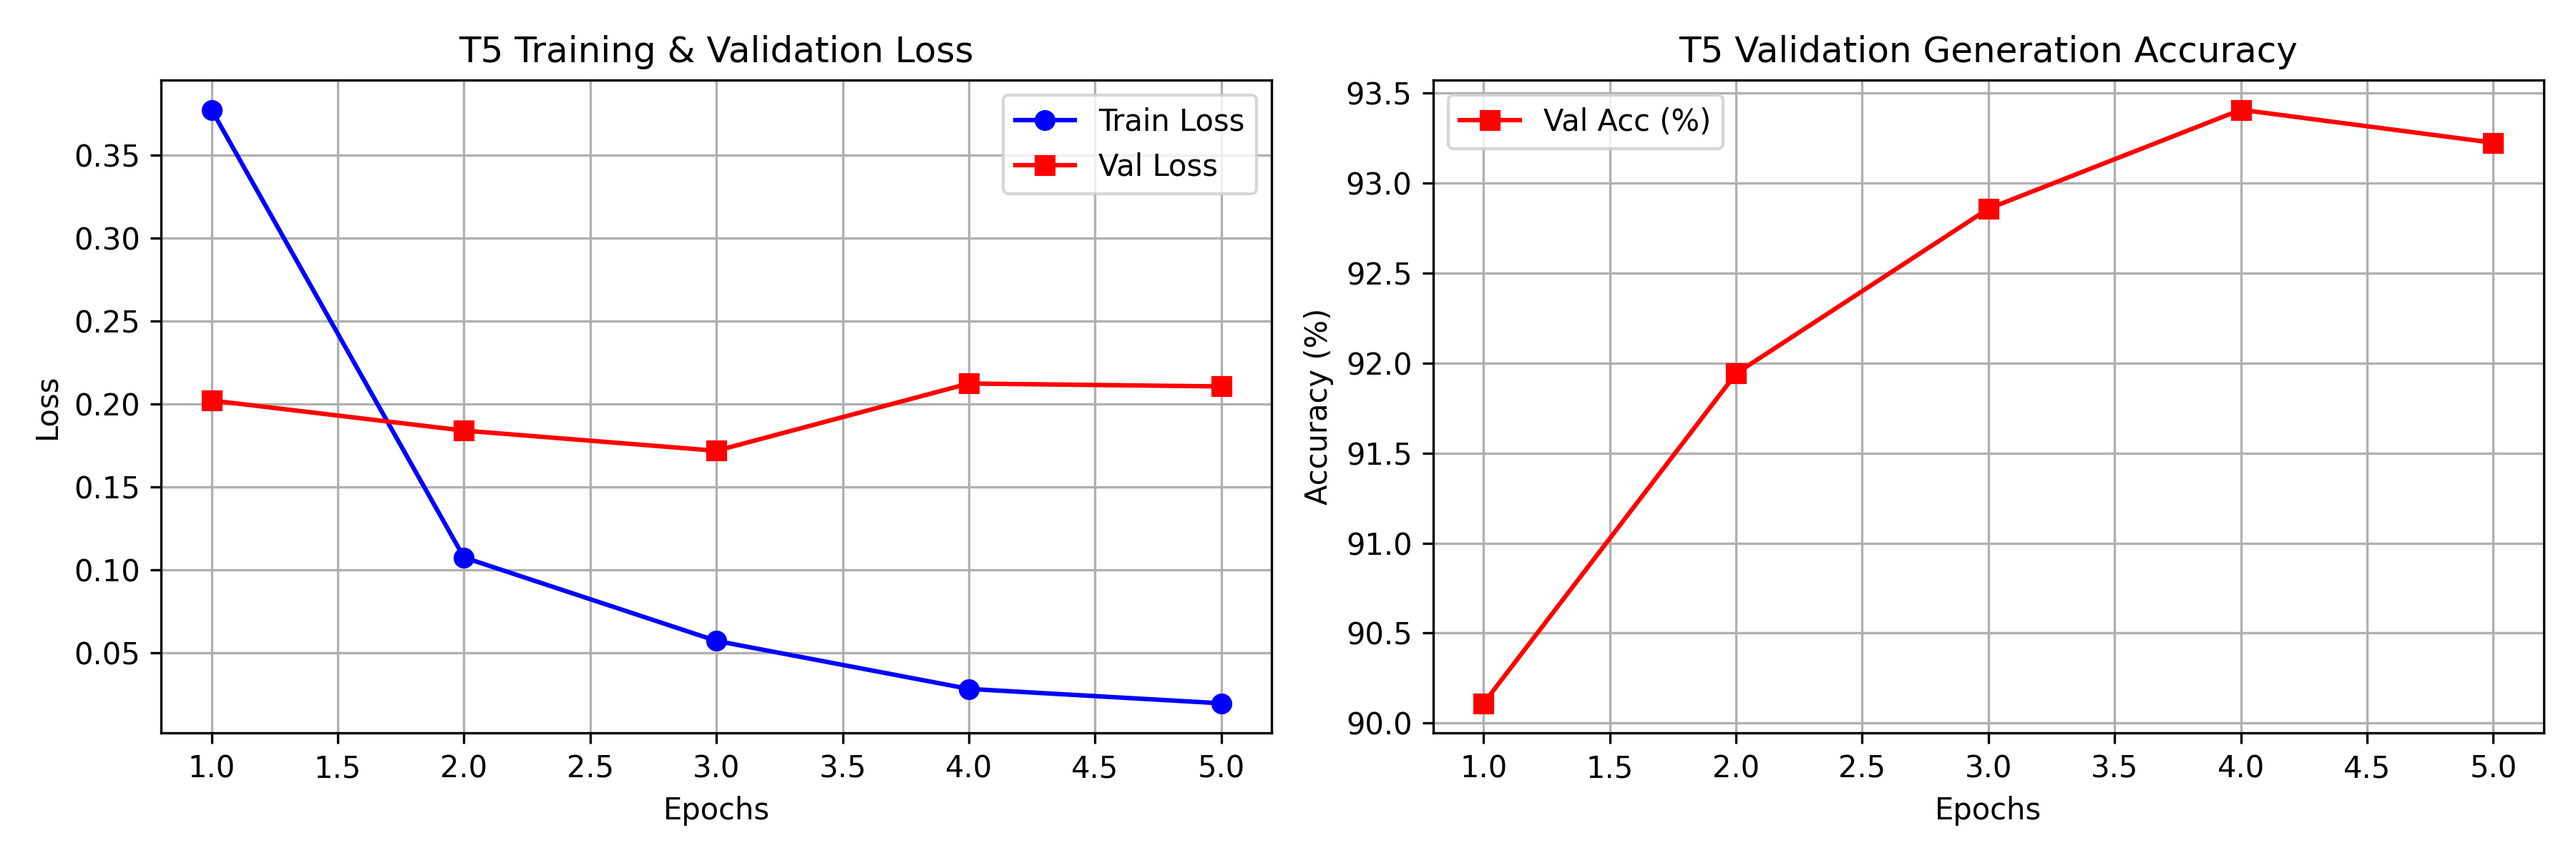
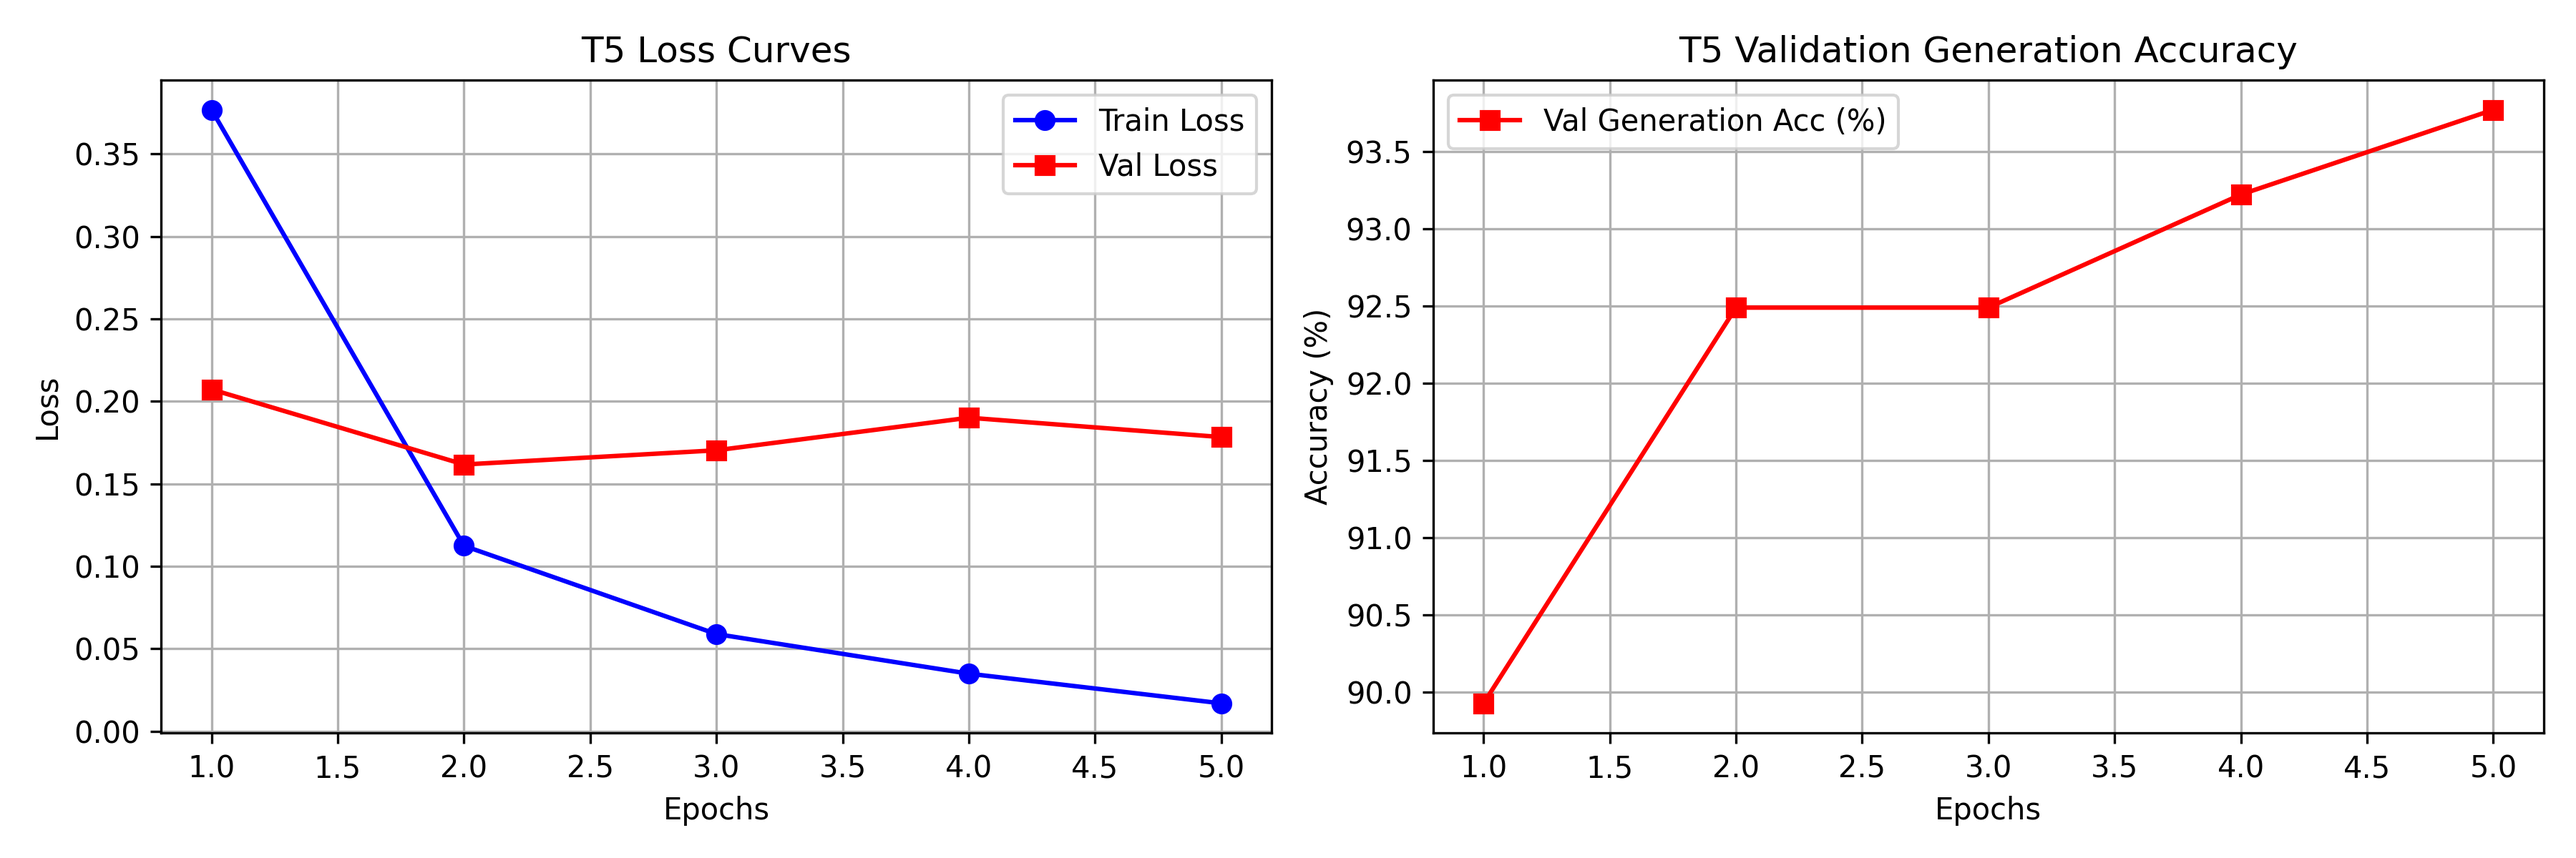
Results from Task 3.1.b after Table 1 updates -- without checkpoints

diff --git a/src/task_3_1_b_t5.py b/src/task_3_1_b_t5.py
@@ -9,7 +9,7 @@ from transformers import AutoTokenizer, AutoModelForSeq2SeqLM, get_linear_schedu
 import pandas as pd
 import numpy as np
 import matplotlib.pyplot as plt
-from sklearn.metrics import accuracy_score, precision_recall_fscore_support, classification_report
+from sklearn.metrics import accuracy_score, precision_recall_fscore_support
 
 from data_pipeline import load_and_split_trec6, seed_everything, LABEL_MAPPING, LABEL_NAMES
 
@@ -135,6 +135,84 @@ def evaluate_t5(model, dataloader, tokenizer, device, max_new_tokens=5):
     return avg_loss, acc, precision, recall, f1, invalid_rate, generated_texts, all_preds_id, all_labels_id
 
 # ==============================================================================
+# Task 3.1.B: 5-Example Generation Inspection (Print & Save)
+# ==============================================================================
+def inspect_and_save_5_examples(model, test_loader, tokenizer, device, max_new_tokens=5):
+    """
+    TASK 3.1.B: 5-EXAMPLE GENERATION INSPECTION
+    Extracts 5 test samples, prints raw & processed outputs to stdout,
+    and saves audit logs to TXT and CSV formats in results/tables/.
+    """
+    model.eval()
+    batch = next(iter(test_loader))
+    
+    input_ids = batch['input_ids'][:5].to(device)
+    attention_mask = batch['attention_mask'][:5].to(device)
+    target_strs = batch['target_str'][:5]
+    label_ids = batch['label_id'][:5].numpy()
+
+    with torch.no_grad():
+        gen_ids = model.generate(
+            input_ids=input_ids,
+            attention_mask=attention_mask,
+            max_new_tokens=max_new_tokens,
+            do_sample=False
+        )
+
+    gen_strs = tokenizer.batch_decode(gen_ids, skip_special_tokens=True)
+    prompt_strs = tokenizer.batch_decode(input_ids, skip_special_tokens=True)
+
+    records = []
+    log_lines = []
+    
+    log_lines.append("=" * 75)
+    log_lines.append("      TASK 3.1.B: 5-EXAMPLE GENERATION INSPECTION AUDIT")
+    log_lines.append("=" * 75)
+
+    for i in range(5):
+        clean_gen = gen_strs[i].lower().strip()
+        matched_id = TARGET_STR_TO_ID.get(clean_gen, -1)
+        status = "EXACT MATCH" if matched_id == label_ids[i] else "MISMATCH / INVALID"
+        
+        sample_log = [
+            f"Sample [{i+1}/5]:",
+            f"  Input Prompt:      '{prompt_strs[i]}'",
+            f"  Target String:     '{target_strs[i]}' (Class ID: {label_ids[i]})",
+            f"  Generated Output:  '{gen_strs[i]}' -> Cleaned: '{clean_gen}'",
+            f"  Mapped Class ID:   {matched_id} [{status}]",
+            "-" * 75
+        ]
+        log_lines.extend(sample_log)
+
+        records.append({
+            "Sample_Idx": i + 1,
+            "Input_Prompt": prompt_strs[i],
+            "Target_String": target_strs[i],
+            "Target_Class_ID": label_ids[i],
+            "Raw_Generated_Output": gen_strs[i],
+            "Cleaned_Generated_Output": clean_gen,
+            "Mapped_Class_ID": matched_id,
+            "Status": status
+        })
+
+    # 1. Print to Stdout
+    full_log_text = "\n".join(log_lines)
+    print("\n" + full_log_text, flush=True)
+
+    # 2. Save to TXT File
+    txt_path = "results/tables/t5_5_examples_inspection.txt"
+    with open(txt_path, "w") as f:
+        f.write(full_log_text + "\n")
+
+    # 3. Save to CSV File
+    csv_path = "results/tables/t5_5_examples_inspection.csv"
+    df_inspection = pd.DataFrame(records)
+    df_inspection.to_csv(csv_path, index=False)
+
+    print(f"Saved 5-example inspection audit text to: {txt_path}", flush=True)
+    print(f"Saved 5-example inspection audit CSV to:  {csv_path}", flush=True)
+
+# ==============================================================================
 # Main Pipeline
 # ==============================================================================
 def main():
@@ -257,27 +335,28 @@ def main():
         history['val_invalid_rate'].append(val_invalid)
 
         print(f"Epoch {epoch+1}/{args.epochs} | Train Loss: {avg_train_loss:.4g} | Val Loss: {val_loss:.4g} | "
-              f"Val Acc: {val_acc*100:.4g}% | Val Macro F1: {val_f1:.4g} | Val Invalid Rate: {val_invalid:.4g}%", flush=True)
+              f"Val Acc: {val_acc*100:.2f}% | Val Macro F1: {val_f1*100:.2f}% | Val Invalid Rate: {val_invalid:.2f}%", flush=True)
 
         if val_acc > best_val_acc:
             best_val_acc = val_acc
             torch.save(model.state_dict(), "checkpoints/t5_best_model.pt")
 
     total_time = time.time() - start_time
-    print(f"\nTraining Complete in {total_time:.4g} seconds ({total_time/60:.4g} minutes).", flush=True)
+    print(f"\nTraining Complete in {total_time:.2f} seconds ({total_time/60:.2f} minutes).", flush=True)
 
+    # Plot Learning Curves
     fig, (ax1, ax2) = plt.subplots(1, 2, figsize=(12, 4))
     epochs_range = range(1, args.epochs + 1)
 
     ax1.plot(epochs_range, history['train_loss'], 'b-o', label='Train Loss')
     ax1.plot(epochs_range, history['val_loss'], 'r-s', label='Val Loss')
-    ax1.set_title('T5 Training & Validation Loss')
+    ax1.set_title('T5 Loss Curves')
     ax1.set_xlabel('Epochs')
     ax1.set_ylabel('Loss')
     ax1.legend()
     ax1.grid(True)
 
-    ax2.plot(epochs_range, [acc * 100 for acc in history['val_acc']], 'r-s', label='Val Acc (%)')
+    ax2.plot(epochs_range, [acc * 100 for acc in history['val_acc']], 'r-s', label='Val Generation Acc (%)')
     ax2.set_title('T5 Validation Generation Accuracy')
     ax2.set_xlabel('Epochs')
     ax2.set_ylabel('Accuracy (%)')
@@ -288,6 +367,7 @@ def main():
     plt.savefig("results/figures/t5_learning_curves.png", dpi=300)
     plt.close()
 
+    # Load best checkpoint and evaluate on test set
     model.load_state_dict(torch.load("checkpoints/t5_best_model.pt"))
     test_loss, test_acc, test_prec, test_rec, test_f1, test_invalid, gen_texts, test_preds, test_labels = evaluate_t5(
         model, test_loader, tokenizer, device, max_new_tokens=args.max_target_len
@@ -296,49 +376,28 @@ def main():
     print("\n" + "=" * 60, flush=True)
     print("         T5 FINAL TEST SET RESULTS", flush=True)
     print("=" * 60, flush=True)
-    print(f"  Best Val Accuracy: {best_val_acc*100:.4g}%", flush=True)
+    print(f"  Best Val Accuracy: {best_val_acc*100:.2f}%", flush=True)
     print(f"  Test Loss:         {test_loss:.4g}", flush=True)
-    print(f"  Test Accuracy:     {test_acc*100:.4g}%", flush=True)
-    print(f"  Macro Precision:   {test_prec:.4g}", flush=True)
-    print(f"  Macro Recall:      {test_rec:.4g}", flush=True)
-    print(f"  Macro F1-Score:    {test_f1:.4g}", flush=True)
-    print(f"  Invalid Output Rate:{test_invalid:.4g}%", flush=True)
-    print(f"  Training Time:     {total_time:.4g} sec", flush=True)
+    print(f"  Test Accuracy:     {test_acc*100:.2f}%", flush=True)
+    print(f"  Macro Precision:   {test_prec*100:.2f}%", flush=True)
+    print(f"  Macro Recall:      {test_rec*100:.2f}%", flush=True)
+    print(f"  Macro F1-Score:    {test_f1*100:.2f}%", flush=True)
+    print(f"  Invalid Output Rate:{test_invalid:.2f}%", flush=True)
+    print(f"  Training Time:     {total_time:.2f} sec", flush=True)
     print("=" * 60, flush=True)
 
-    examples_output = ["============================================================",
-                       "      TASK 3.1.B 5-EXAMPLE GENERATION INSPECTION",
-                       "============================================================"]
-    for i in range(min(5, len(test_df))):
-        raw_text = test_df.iloc[i]['text']
-        gt_id = test_df.iloc[i]['label']
-        gt_str = LABEL_MAPPING[gt_id]["t5_target"]
-        gen_str = gen_texts[i]
-        
-        examples_output.append(
-            f"Example {i+1}:\n"
-            f"  Input Question:   \"{raw_text}\"\n"
-            f"  Generated Text:   \"{gen_str}\"\n"
-            f"  Ground-Truth:     \"{gt_str}\" ({LABEL_NAMES[gt_id]})\n"
-            f"  Exact Match:      {'YES' if gen_str == gt_str else 'NO'}\n"
-        )
-    examples_text = "\n".join(examples_output)
-    print("\n" + examples_text, flush=True)
-
-    with open("results/tables/t5_examples_inspection.txt", "w") as f:
-        f.write(examples_text)
-
+    # Save CSV aligned with Task 3.1.A dictionary format and rounding rules
     t5_table_df = pd.DataFrame([{
-        "Model": "T5-small",
-        "Test Loss": test_loss,
-        "Test Accuracy (%)": test_acc * 100,
-        "Macro Precision": test_prec,
-        "Macro Recall": test_rec,
-        "Macro F1": test_f1,
-        "Invalid Rate (%)": test_invalid,
-        "Training Time (s)": total_time
+        "Model": "T5 fine-tuned",
+        "Best val. acc. (%)": round(best_val_acc * 100, 2),
+        "Test acc. (%)": round(test_acc * 100, 2),
+        "Macro-F1 (%)": round(test_f1 * 100, 2),
+        "Train time (s)": round(total_time, 2)
     }])
     t5_table_df.to_csv("results/tables/t5_table_entry.csv", index=False)
+
+    # Execute and save 5-example generation inspection
+    inspect_and_save_5_examples(model, test_loader, tokenizer, device, max_new_tokens=args.max_target_len)
 
 if __name__ == "__main__":
     main()

diff --git a/src/build_table1.py b/src/build_table1.py
@@ -1,43 +1,143 @@
 import os
 import pandas as pd
+import matplotlib.pyplot as plt
+import numpy as np
 
 # Path definitions
 BASE_DIR = os.path.dirname(os.path.dirname(os.path.abspath(__file__)))
 TABLES_DIR = os.path.join(BASE_DIR, "results", "tables")
+FIGURES_DIR = os.path.join(BASE_DIR, "results", "figures")
 
 def build_table_1():
     """
     Consolidates individual model metrics into official Table 1 for TREC-6.
-    Comment: Ensures 100% numerical consistency across report sections (Rule 4).
+    PDF Schema Specs:
+      - Columns: Model, Best val. acc., Test acc., Macro-F1, Train time
+      - Accuracy and macro-F1 are percentages (%)
     """
     files = [
         "bert_table1_entry.csv",
-        "t5_table1_entry.csv",
+        "t5_table_entry.csv",
         "custom_transformer_table1_entry.csv"
     ]
+    
+    column_mapping = {
+        "Model": "Model",
+        "Best val. acc. (%)": "Best val. acc.",
+        "Best Val. Acc. (%)": "Best val. acc.",
+        "Test acc. (%)": "Test acc.",
+        "Test Accuracy (%)": "Test acc.",
+        "Macro-F1 (%)": "Macro-F1",
+        "Macro F1": "Macro-F1",
+        "Train time (s)": "Train time",
+        "Training Time (s)": "Train time"
+    }
     
     rows = []
     for file in files:
         path = os.path.join(TABLES_DIR, file)
         if os.path.exists(path):
             df = pd.read_csv(path)
+            df = df.rename(columns=column_mapping)
             rows.append(df)
-        else:
-            print(f"Pending execution: {file} not found yet.")
 
     if rows:
         table1_df = pd.concat(rows, ignore_index=True)
-        out_csv = os.path.join(TABLES_DIR, "table_1_trec6_results.csv")
-        table1_df.to_csv(out_csv, index=False)
+        pdf_columns = ["Model", "Best val. acc.", "Test acc.", "Macro-F1", "Train time"]
         
-        print("\n" + "="*60)
-        print("          TABLE 1: TREC-6 RESULTS SUMMARY")
-        print("="*60)
-        print(table1_df.to_string(index=False))
-        print("="*60)
-        print(f"Saved consolidated Table 1 to: {out_csv}")
-    else:
-        print("No model output files found yet. Run Task 3.1.A first!")
+        for col in pdf_columns:
+            if col not in table1_df.columns:
+                table1_df[col] = np.nan
+
+        table1_df = table1_df[pdf_columns]
+
+        # Standardize Macro-F1 to percentage (0 - 100%)
+        table1_df["Macro-F1"] = table1_df["Macro-F1"].apply(
+            lambda x: x * 100.0 if pd.notna(x) and x <= 1.0 else x
+        )
+
+        model_name_map = {
+            "BERT fine-tuned": "BERT fine-tuned",
+            "T5-small": "T5 fine-tuned",
+            "Custom Transformer": "Custom Transformer"
+        }
+        table1_df["Model"] = table1_df["Model"].replace(model_name_map)
+
+        # Format numerical entries to 4 significant digits
+        formatted_df = table1_df.copy()
+        for col in ["Best val. acc.", "Test acc.", "Macro-F1", "Train time"]:
+            formatted_df[col] = formatted_df[col].apply(lambda x: f"{x:.4g}" if pd.notna(x) else "N/A")
+
+        out_csv = os.path.join(TABLES_DIR, "table_1_trec6_results.csv")
+        formatted_df.to_csv(out_csv, index=False)
+        
+        print("\n" + "="*65, flush=True)
+        print("          Table 1: TREC-6 results", flush=True)
+        print("="*65, flush=True)
+        print(formatted_df.to_string(index=False), flush=True)
+        print("="*65, flush=True)
+        print(f"Saved consolidated Table 1 to: {out_csv}", flush=True)
+        
+        plot_consolidated_comparison(table1_df)
+
+def plot_consolidated_comparison(df):
+    """
+    Generates a comparative bar chart for Test acc., Macro-F1, and Train time.
+    """
+    os.makedirs(FIGURES_DIR, exist_ok=True)
+    valid_df = df.dropna(subset=["Test acc."]).copy()
+    
+    models = valid_df["Model"].tolist()
+    test_acc = valid_df["Test acc."].values
+    macro_f1 = valid_df["Macro-F1"].values
+    train_time = valid_df["Train time"].values
+
+    x = np.arange(len(models))
+    width = 0.25
+
+    fig, ax1 = plt.subplots(figsize=(9, 5))
+
+    rects1 = ax1.bar(x - width/2, test_acc, width, label='Test acc. (%)', color='#2b5c8f')
+    rects2 = ax1.bar(x + width/2, macro_f1, width, label='Macro-F1 (%)', color='#d95f02')
+    
+    ax1.set_ylabel('Percentage (%)')
+    ax1.set_title('TREC-6 Model Performance Comparison (Table 1)')
+    ax1.set_xticks(x)
+    ax1.set_xticklabels(models, fontweight='bold')
+    ax1.set_ylim(80, 100)
+    ax1.grid(axis='y', linestyle='--', alpha=0.5)
+
+    ax2 = ax1.twinx()
+    rects3 = ax2.plot(x, train_time, color='green', marker='o', linewidth=2, label='Train time (s)')
+    ax2.set_ylabel('Train time (s)', color='green')
+    ax2.tick_params(axis='y', labelcolor='green')
+
+    for rect in rects1:
+        height = rect.get_height()
+        if not np.isnan(height):
+            ax1.annotate(f'{height:.4g}%',
+                        xy=(rect.get_x() + rect.get_width() / 2, height),
+                        xytext=(0, 3), textcoords="offset points",
+                        ha='center', va='bottom', fontsize=9)
+            
+    for rect in rects2:
+        height = rect.get_height()
+        if not np.isnan(height):
+            ax1.annotate(f'{height:.4g}%',
+                        xy=(rect.get_x() + rect.get_width() / 2, height),
+                        xytext=(0, 3), textcoords="offset points",
+                        ha='center', va='bottom', fontsize=9)
+
+    lines1, labels1 = ax1.get_legend_handles_labels()
+    lines2, labels2 = ax2.get_legend_handles_labels()
+    ax1.legend(lines1 + lines2, labels1 + labels2, loc='lower right')
+
+    plt.tight_layout()
+    plot_path = os.path.join(FIGURES_DIR, "trec6_model_comparison.png")
+    plt.savefig(plot_path, dpi=300)
+    plt.close()
+    
+    print(f"Saved consolidated comparison plot to: {plot_path}", flush=True)
 
 if __name__ == "__main__":
     build_table_1()
